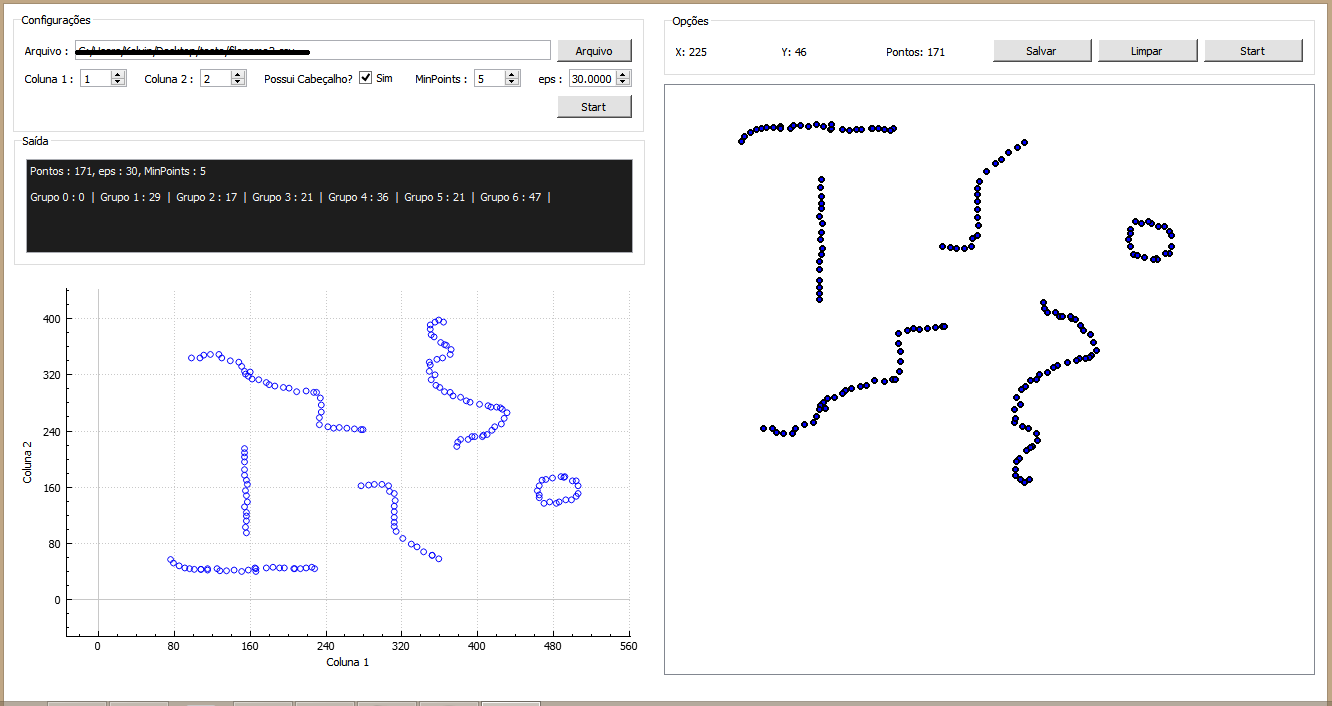
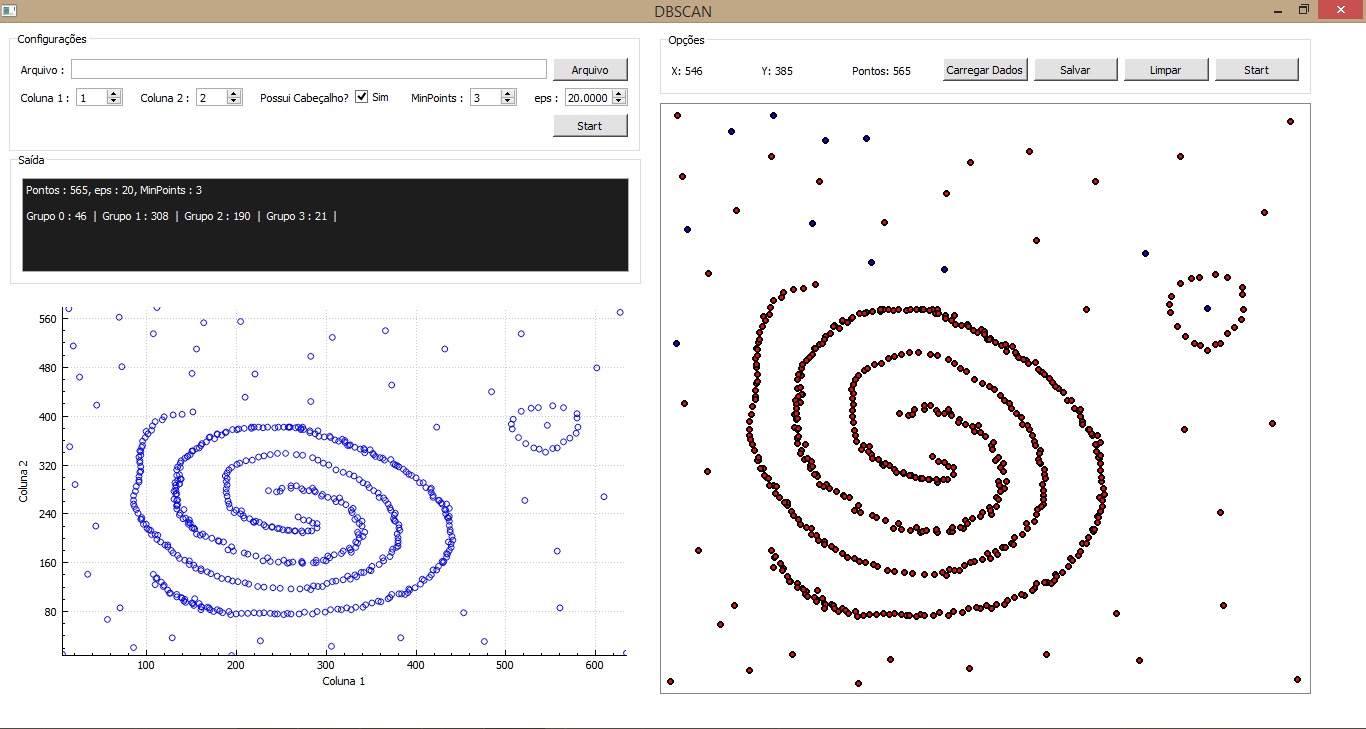
Alteração no eixo da scene e no README

diff --git a/DBSCAN/mainwindow.cpp b/DBSCAN/mainwindow.cpp
@@ -7,8 +7,18 @@ MainWindow::MainWindow(QWidget *parent) :
 {
     ui->setupUi(this);
 
-    scene = new QGraphicsScene(0, 0, 650, 590);
+    sceneW = 650;
+    sceneH = 590;
+
+    scene = new QGraphicsScene(0, 0, sceneW, sceneH);
     ui->graphicsView->setScene(scene);
+
+    QMatrix m;
+    m.translate(0, sceneH);
+    m.scale(1, -1); // Inverte o eixo da scene
+
+    ui->graphicsView->setMatrix(m);
+
     ui->graphicsView->installEventFilter(this);
 
     pontos = 0;
@@ -27,16 +37,17 @@ bool MainWindow::eventFilter(QObject *obj, QEvent *event)
         QMouseEvent *mouseEvent = static_cast<QMouseEvent*>(event);
 
         xValues.append( mouseEvent->pos().x() );
-        yValues.append( mouseEvent->pos().y() );
+        yValues.append( sceneH-mouseEvent->pos().y() );
         pontos++;
         ui->labelPontos->setText("Pontos: " + QString::number(pontos) );
-        ui->labelX->setText("X: " + QString::number(mouseEvent->pos().x()) );
-        ui->labelY->setText("Y: " + QString::number(mouseEvent->pos().y()) );
+
+        ui->labelX->setText("X: " + QString::number( mouseEvent->pos().x() ) );
+        ui->labelY->setText("Y: " + QString::number( sceneH-mouseEvent->pos().y() ) );
 
         QBrush blueBrush(Qt::blue);
         QPen blackPen(Qt::black);
         blackPen.setWidth(2);
-        scene->addEllipse(mouseEvent->pos().x()-2, mouseEvent->pos().y()-2, 5, 5, blackPen, blueBrush);
+        scene->addEllipse(mouseEvent->pos().x()-2, sceneH-mouseEvent->pos().y()-2, 5, 5, blackPen, blueBrush);
 
         ui->salvarPushButton->setEnabled(true);
         ui->start2PushButton->setEnabled(true);
@@ -153,6 +164,7 @@ void MainWindow::on_abreArquivo_clicked()
     filePath = QFileDialog::getOpenFileName(this, tr("Open File"), "", tr("All Files ()"));
     ui->caminhoDoArquivoEdit->setText(filePath); // Mostra o caminho no edit
     ui->startButton->setEnabled(true); // Libera o botão
+    ui->carregarPushButton->setEnabled(true);
 }
 
 void MainWindow::on_startButton_clicked()
@@ -235,4 +247,57 @@ void MainWindow::on_start2PushButton_clicked()
 
     // Chama a função que plota os dados na tela
     plot();
+}
+
+void MainWindow::on_carregarPushButton_clicked()
+{
+    // Carregar dados
+
+    // Limpa os vetores
+    col1.clear();
+    col2.clear();
+
+    int coluna1 = ui->col1SpinBox->value();
+    int coluna2 = ui->col2SpinBox->value();
+
+    if( filePath.isEmpty() )
+        return;
+
+    // Testa abrir o arquivo para leitura
+    QFile file(filePath);
+    if (!file.open(QIODevice::ReadOnly)) {
+        QMessageBox::critical(this, tr("Erro"), tr("Não foi possível abrir o arquivo"));
+        return;
+    }
+
+    // Checa se o arquivo tem cabeçalho, se sim, descarta ele
+    if( ui->cabecalhoCheckBox->isChecked() )
+        file.readLine();
+
+    while(!file.atEnd())
+    {
+        QString line = file.readLine(); // Lê uma linha no arquivo
+        col1.append( line.split(",").at(coluna1-1).toDouble() ); // Lê a coluna 1
+        col2.append( line.split(",").at(coluna2-1).toDouble() ); // Lê a coluna 2
+    }
+
+    file.close(); // Fecha o arquivo
+
+    xValues = col1;
+    yValues = col2;
+
+    pontos = xValues.length();
+    ui->labelPontos->setText("Pontos: " + QString::number(pontos) );
+
+    ui->start2PushButton->setEnabled(true);
+
+    QBrush blueBrush(Qt::red);
+    QPen blackPen(Qt::black);
+    blackPen.setWidth(2);
+
+    scene->clear();
+
+    for (int var = 0; var < pontos; ++var)
+        scene->addEllipse(xValues.at(var), yValues.at(var), 5, 5, blackPen, blueBrush);
+
 }

diff --git a/DBSCAN/mainwindow.h b/DBSCAN/mainwindow.h
@@ -43,6 +43,8 @@ private slots:
 
     void on_start2PushButton_clicked();
 
+    void on_carregarPushButton_clicked();
+
 private:
     DBSCAN dbscan;
     Ui::MainWindow *ui;
@@ -56,6 +58,8 @@ private:
     QVector<double> xValues; // Values of the QGraphicsView
     QVector<double> yValues;
     int pontos;
+    int sceneW;
+    int sceneH;
 };
 
 #endif // MAINWINDOW_H

diff --git a/DBSCAN/main.cpp b/DBSCAN/main.cpp
@@ -5,7 +5,7 @@ int main(int argc, char *argv[])
 {
     QApplication a(argc, argv);
     MainWindow w;
-    w.show();
+    w.showMaximized();
 
     return a.exec();
 }

diff --git a/README.md b/README.md
@@ -1,7 +1,23 @@
 # DBSCAN C++
 
-> Implementação do algoritmo DBSCAN em C++ com interface gráfica.
+Implementação do algoritmo DBSCAN em C++ com interface gráfica.
 
-#### Screenshot
+## Descrição
+
+O DBSCAN (Density-based spatial clustering of applications with noise) é um algoritmo de agrupamento de dados, baseado em densidade, proposto por Martin Ester, Hans-Peter Kriegel, Jorg Sander e Xu Xiaowei em 1996. Dado um conjunto de pontos em um espaço, o algoritmo agrupa os pontos que possuem vizinhos mais próximos, e categoriza aqueles dados/pontos que estão em regiões de baixa densidade (onde os vizinhos estão longes) como ruído. O DBSCAN é um algoritmo bem comum e bastante citado na literatura científica.
+
+### Parâmetros
+
+O DBSCAN requer dois parâmetros:
+
+- eps: distância entre os pontos. Significa que se a distância entre um ponto e outro é menor ou igual ao valor de eps, então estes dois pontos são considerados vizinhos.
+
+- minPoints: número mínimo de pontos necessários para formar uma região densa. Por exemplo, se o minPoints é igual a 5 então são necessários 5 pontos para formar um região densa.
+
+## Screenshot
 
 ![alt text](https://github.com/kelvins/DBSCAN/blob/master/screenshot.png "Screenshot")
+
+> Obs.: Esta aplicação foi desenvolvida como estudo e trabalho para a disciplina de Mineração de Dados, por este e outros motivos, não segui algumas boas práticas de documentação e desenvolvimento.
+
+Em todo caso, qualquer dúvida ou sugestão entre em contato pelo e-mail: kelvinpfw@hotmail.com
